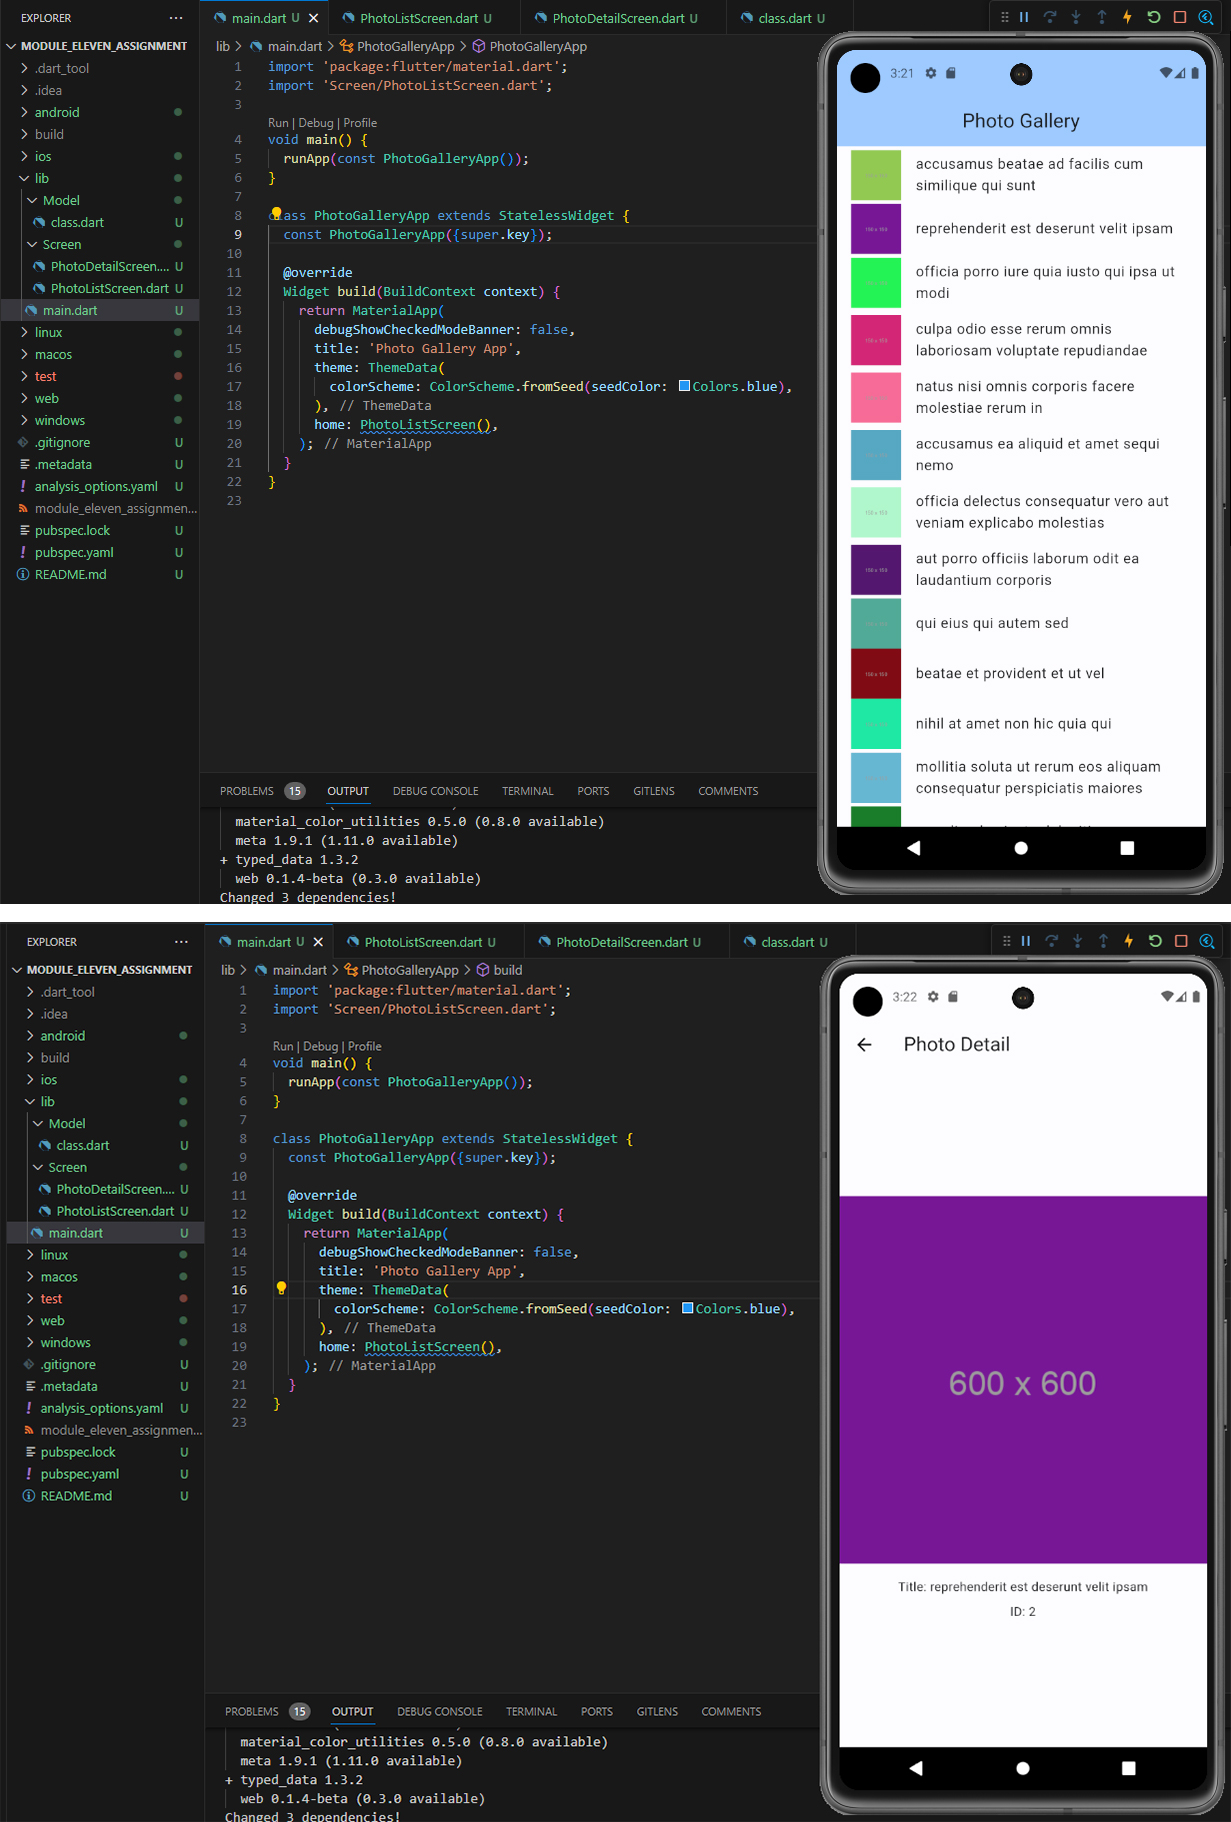
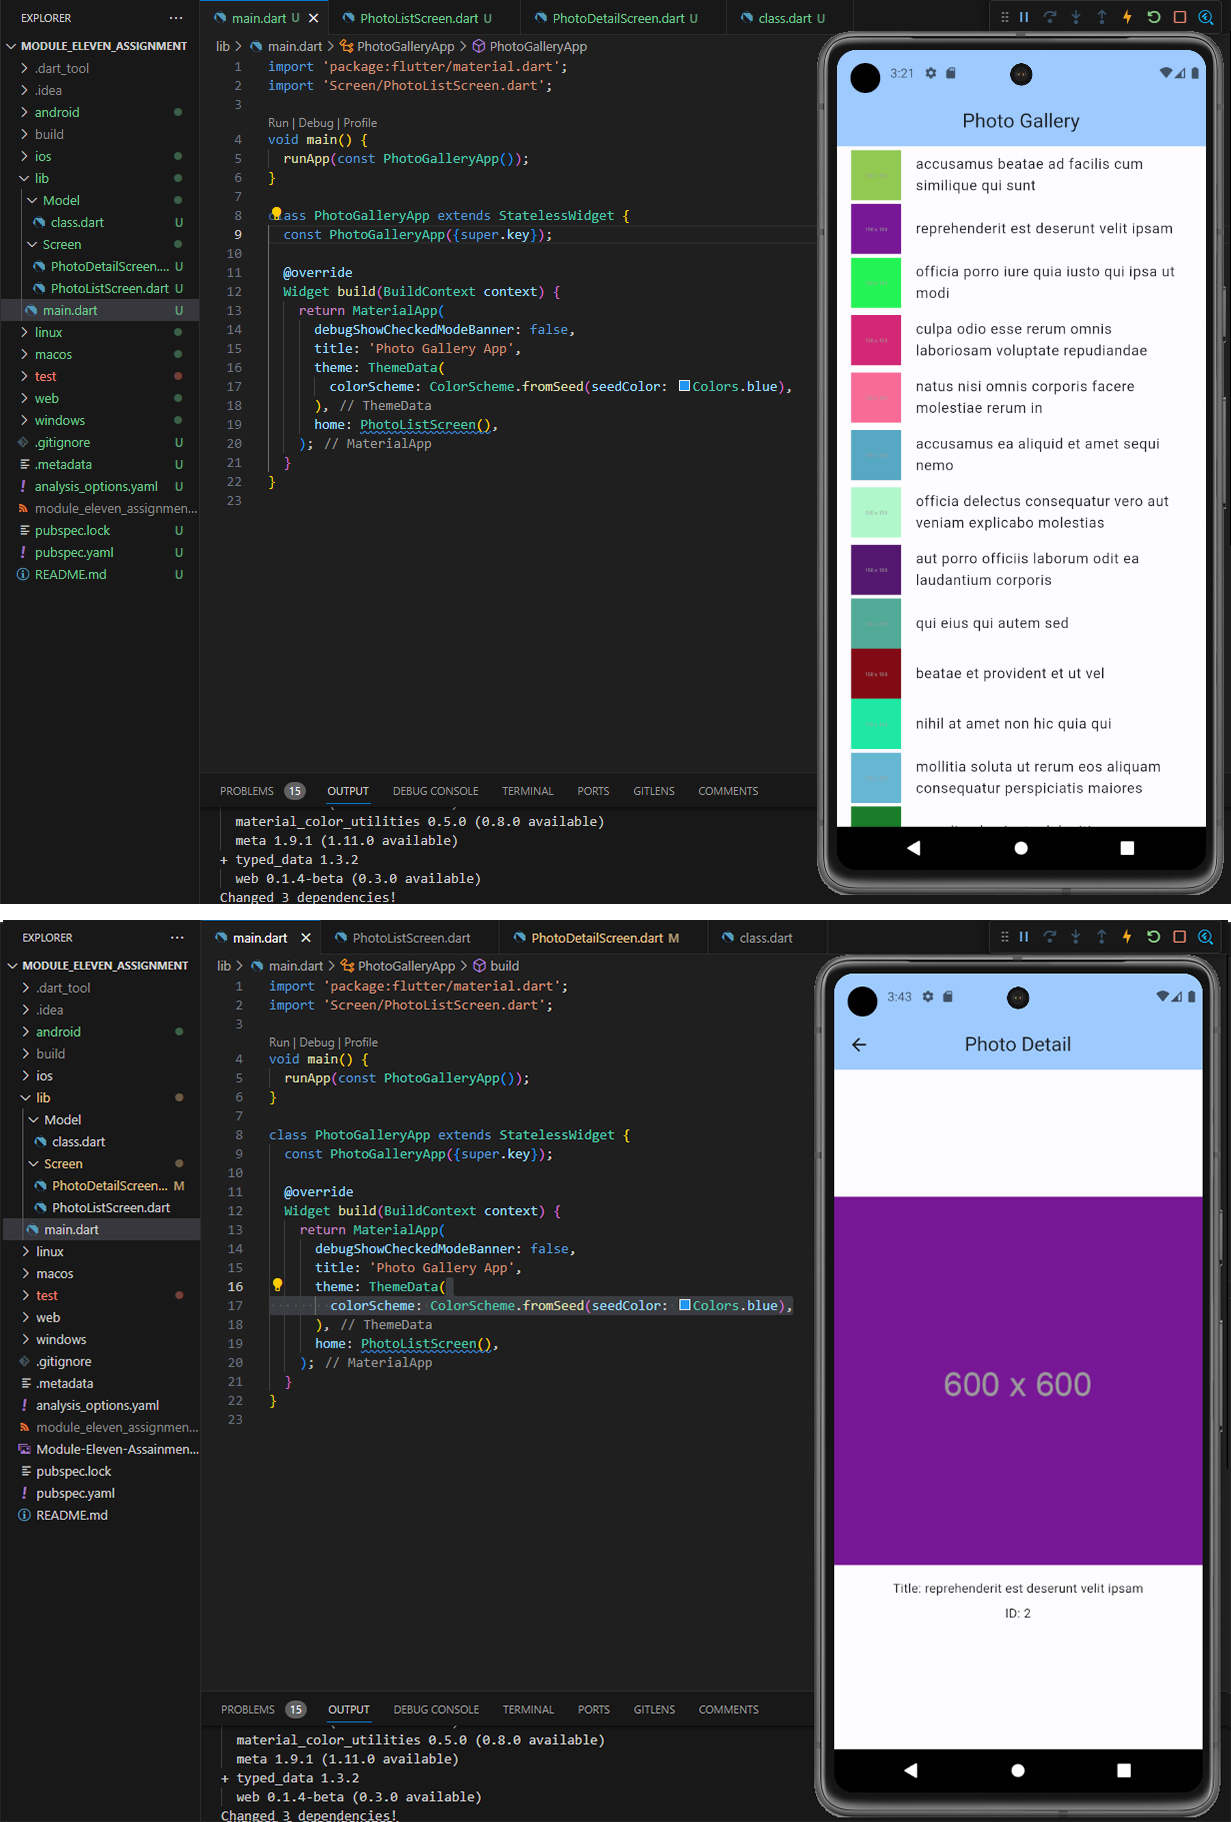
Module Eleven Assignment Upload
Module Eleven Assignment Upload

diff --git a/module_eleven_assignment/lib/Screen/PhotoDetailScreen.dart b/module_eleven_assignment/lib/Screen/PhotoDetailScreen.dart
@@ -10,6 +10,8 @@ class PhotoDetailScreen extends StatelessWidget {
   Widget build(BuildContext context) {
     return Scaffold(
       appBar: AppBar(
+        backgroundColor: Theme.of(context).colorScheme.inversePrimary,
+        centerTitle: true,
         title: const Text('Photo Detail'),
       ),
       body: Column(
